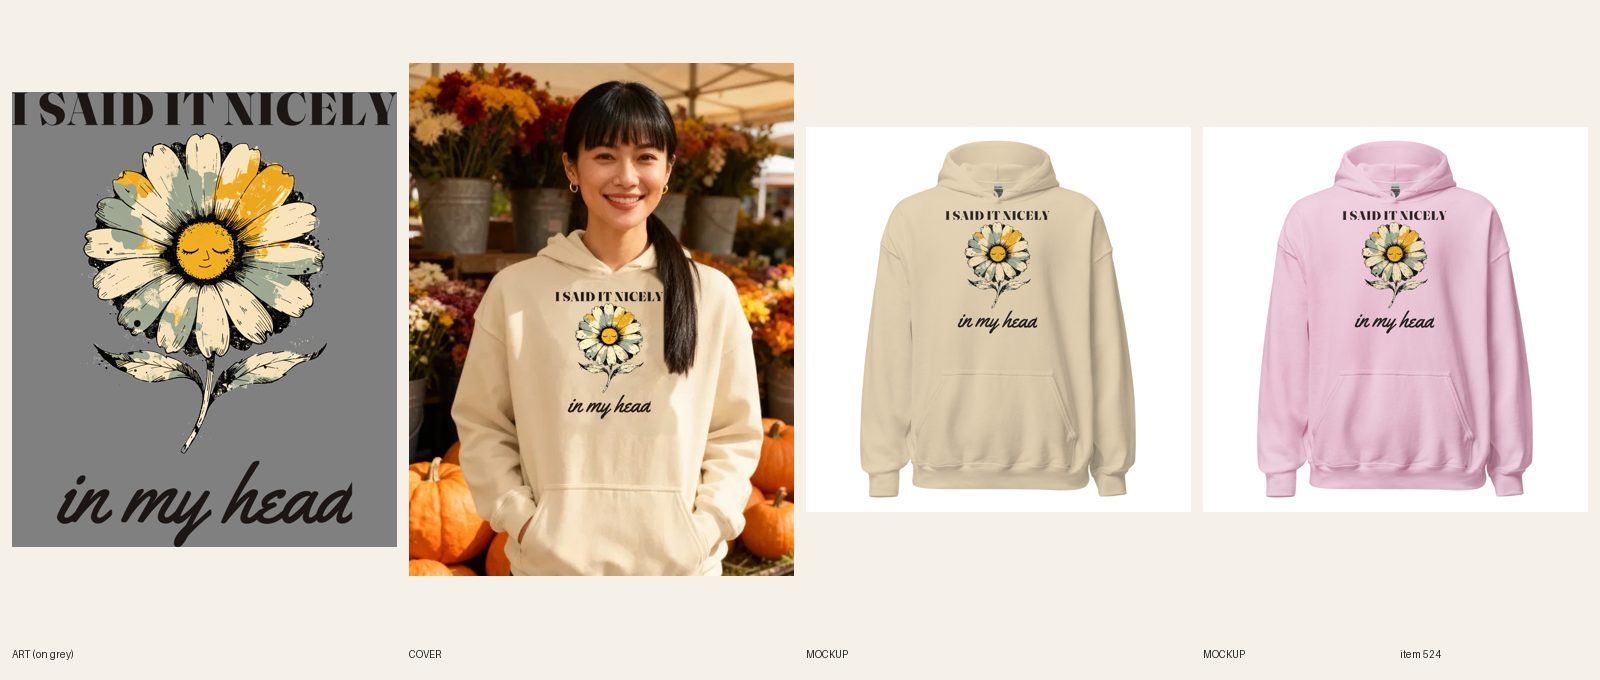
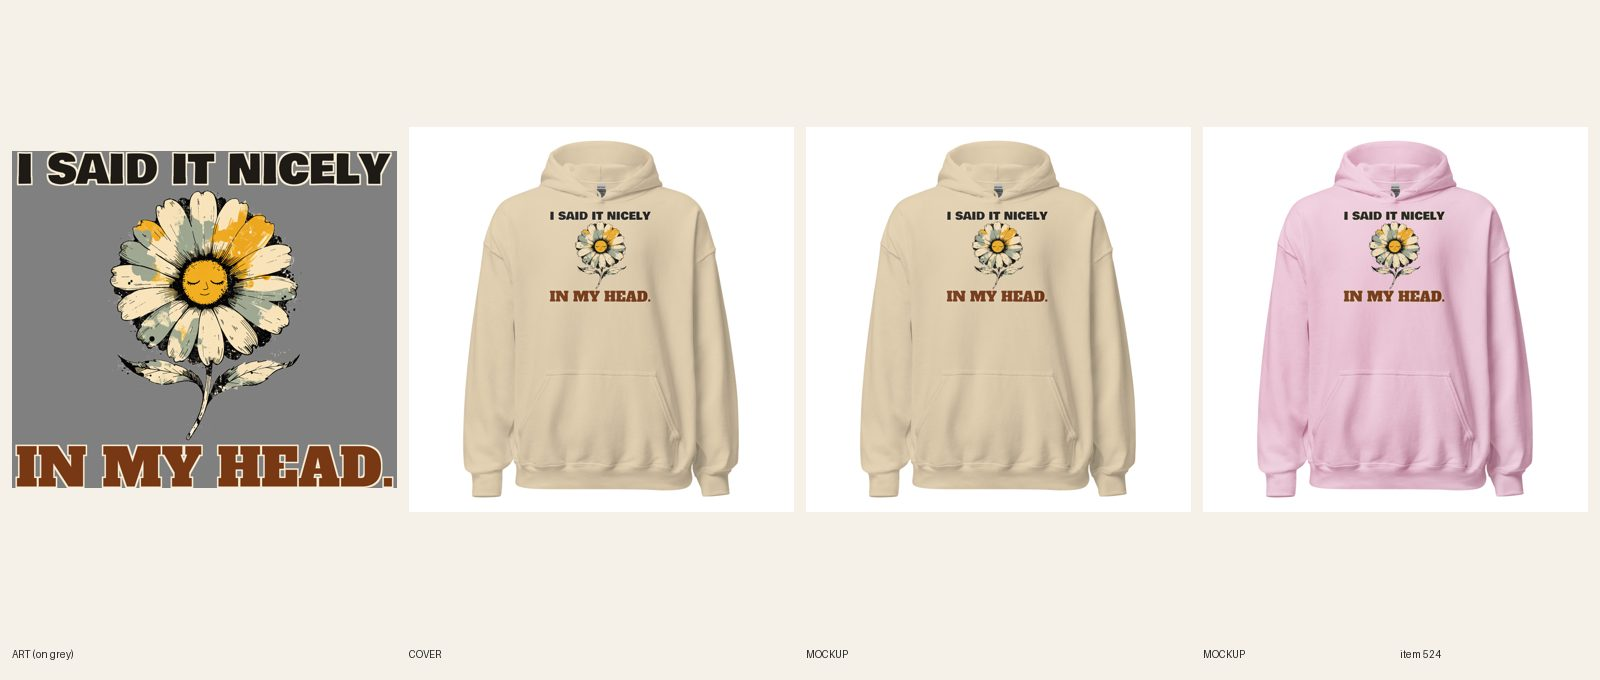
[C] review 524 (redo)
Claude-Session: https://claude.ai/code/session_01CCHcDj8LcJJ8qUPtKE3cvn

Changed region(s): [[0.0, 0.0926, 0.5, 0.8647], [0.8438, 0.3088, 0.9062, 0.4941], [0.5938, 0.3088, 0.6562, 0.4941]]

diff --git a/designs/c524/make.py b/designs/c524/make.py
@@ -1,0 +1,9 @@
+import sys; sys.path.insert(0,'.')
+from designs.lib import *
+im=Image.open('docs/print-files/524-i-said-it-nicely-hoodie.png').convert('RGBA'); W=im.width
+art=im.crop((0,352,W,3140)); art=art.crop(art.getbbox()); art=art.resize((int(art.width*0.78),int(art.height*0.78)),Image.LANCZOS)
+DK=(30,26,22,255); GOLD=(236,168,24,255); DGOLD=(176,112,0,255); BRN=(120,56,20,255)
+for tag,bg in (('sand',(214,196,160,255)),('pink',(244,214,222,255))):
+    h1=line("I SAID IT NICELY",'bowlby',0.97,W,DK,CREAM,kw=29); h2=line("IN MY HEAD.",'alfa',0.985,W,BRN,CREAM,kw=27)
+    print(tag,'headline px',h1.width,'punch px',h2.width,'heights',h1.height,h2.height,'art',art.size)
+    out=lockup(art,W,[h1],[h2],f'524-v2-head-{tag}',{tag:bg}); print(out.size,out.height/out.width)

diff --git a/docs/pipeline/524-hoodie-i-said-it-nicely-in-my-head.md b/docs/pipeline/524-hoodie-i-said-it-nicely-in-my-head.md
@@ -1,4 +1,4 @@
-status: BUILDING [C] 2026-10-20 09:29
+status: REVIEW
 lane: C
 type: twin
 id: 524
@@ -27,3 +27,4 @@ kd: 38
 - 2026-10-18 02:46 UTC builder [C]: Sync 12/12. REVIEW. Sheet docs/review/524.jpg.
 - 2026-10-18 03:16 UTC director: LIVE. Sheet seen: closed-eye daisy, I SAID IT NICELY / in my head read on Sand and Light Pink; woman at a fall flower market, hands in the pouch. ACTIVE + Online Store, Headless, Google & YouTube; audit --handle PASS (0 warn).
 - 2026-10-18 17:22 UTC director: QUALITY RESET grade B (type only), REDO. The product stays ACTIVE (same handle, URL, title keyword). Keep the line "I SAID IT NICELY / in my head" and the art. 1. Type: Plain black bar not from art colors; thin black script under art. 2. Quality reset type bar (docs/backlog/quality-reset.md, 'The new bar'): headline at least 90% of the art width, heavy, colors pulled from the art; second line at least 45% of the headline's height, never a thin script on a dark or mid garment; use the lettering as a shape (arch, stacked lockup, words breaking into the art), not a plain bar above and a script line below; no font used on more than 1 in 6 of the last 30 designs. 3. New print file means a new cover per R6.10 and a fresh review sheet (R7.7). While quality-reset.md says PAUSED, only lane A builds, and only the samples step 2 names.
+- 2026-10-20 09:35 UTC builder [C]: REDO type only (grade B). Line and art kept (I SAID IT NICELY / in my head); no new line, so the title is unchanged (card 7i not triggered). Old plain black bar and thin black script replaced: I SAID IT NICELY in Bowlby One black with a cream keyline, 97% of the art width; IN MY HEAD. in Alfa Slab One brown with a cream keyline, big and heavy. The daisy art was scaled to 78% so the whole print sits above the pouch. Measured ink widths (card 7h): headline 3256 px / punch IN MY HEAD. 3283 px (101%; also taller, 377 vs 304 px). Sand + Light Pink are both light and the ink is dark (no cream fills), so one file serves both (logged: no light file needed, headline fill black); file 1090279357 on Sand, 1090279421 on Light Pink (same art; docs/print-files/524-v2-head-sand.png / -pink.png). Print 3343 x 2927, FW 1500 TOP 0 (about 1,310 px high), 12/12 relinked (verified on the API). 2 fronts replaced in place, read at phone size. Story and FAQ lettering sentences updated. Handle in retired-covers.json. Plain product shot. fal $0.

diff --git a/docs/intake-log.md b/docs/intake-log.md
@@ -23,6 +23,7 @@ RUNNING lane B since 2026-10-20 09:02 UTC
 2026-10-20 07:44 UTC — [B] Builder run: REDO round 3 of #455 Unisex Hanukkah Lost My Gelt crewneck (dreidel face marks painted out, Navy file 1090236634 + Sport Grey file 1090236680, FW 1650 TOP 0, 12/12 relinked, 2 fronts replaced in place) and #469 Women's Christmas embroidered crewneck (new line BOOKED / THROUGH JANUARY., headline 2197 / punch 2197 px, Sand file 1090237592 + Navy file 1090237605, 12/12 synced, title/SEO/copy/alts updated). Both REVIEW. #498 left for director (R3.14 note). fal $0.
 2026-10-20 08:00 UTC — [E] Builder run: redid #608 Women's Pickleball tee (line + type: POLITE SMILE. / PERSONAL VENDETTA., same serene-lady art, Bevan, dark-ink file on 5 light colors, 30/30 synced). REVIEW. fal $0.
 RUNNING lane C since 2026-10-20 07:00 UTC
+2026-10-20 09:35 UTC — [C] Builder run: redid #524 Women's Funny daisy hoodie (type only: I SAID IT NICELY Bowlby + IN MY HEAD. Alfa Slab, headline 3256 px / punch 3283 px, Sand file 1090279357 + Light Pink file 1090279421, FW 1500 TOP 0, 12/12 relinked, 2 fronts replaced in place, copy updated). REVIEW. fal $0.
 2026-10-20 09:29 UTC — [C] Builder run: redid #526 Men's Chess hoodie (twin of #442: SORRY ABOUT / YOUR PAWN., headline 3313 px / punch 3354 px, Alfa Slab, Ash file 1090277160 + Navy file 1090277197, FW 1500 TOP 0, 12/12 relinked, 2 fronts replaced in place, title + copy + SEO updated). REVIEW. fal $0.
 2026-10-20 09:23 UTC — [C] Builder run: redid #516 Women's Dachshund hoodie (new line + type: OUT OF OFFICE. / BACK IN SPRING., headline 3309 px / punch 3360 px, Bowlby + Alfa, same quilt art, Sand file 1090275442 + Sport Grey file 1090275478, FW 1650 TOP 30, 12/12 relinked, 2 fronts replaced in place, title + copy + SEO updated). REVIEW. fal $0.
 2026-10-20 09:16 UTC — [C] Builder run: redid #371 Women's Sunflower zip hoodie (new line + type: SUNSHINE. / DO NOT TOUCH THE PETALS., headline 3291 px / punch 3336+2825 px, Bowlby + Big Shoulders, same sunflower art, Ash file 1090272572 + Navy file 1090272641, BW 1650 BT 225, 14/14 relinked, back mockups updated, title + copy + SEO updated). REVIEW. fal $0.
